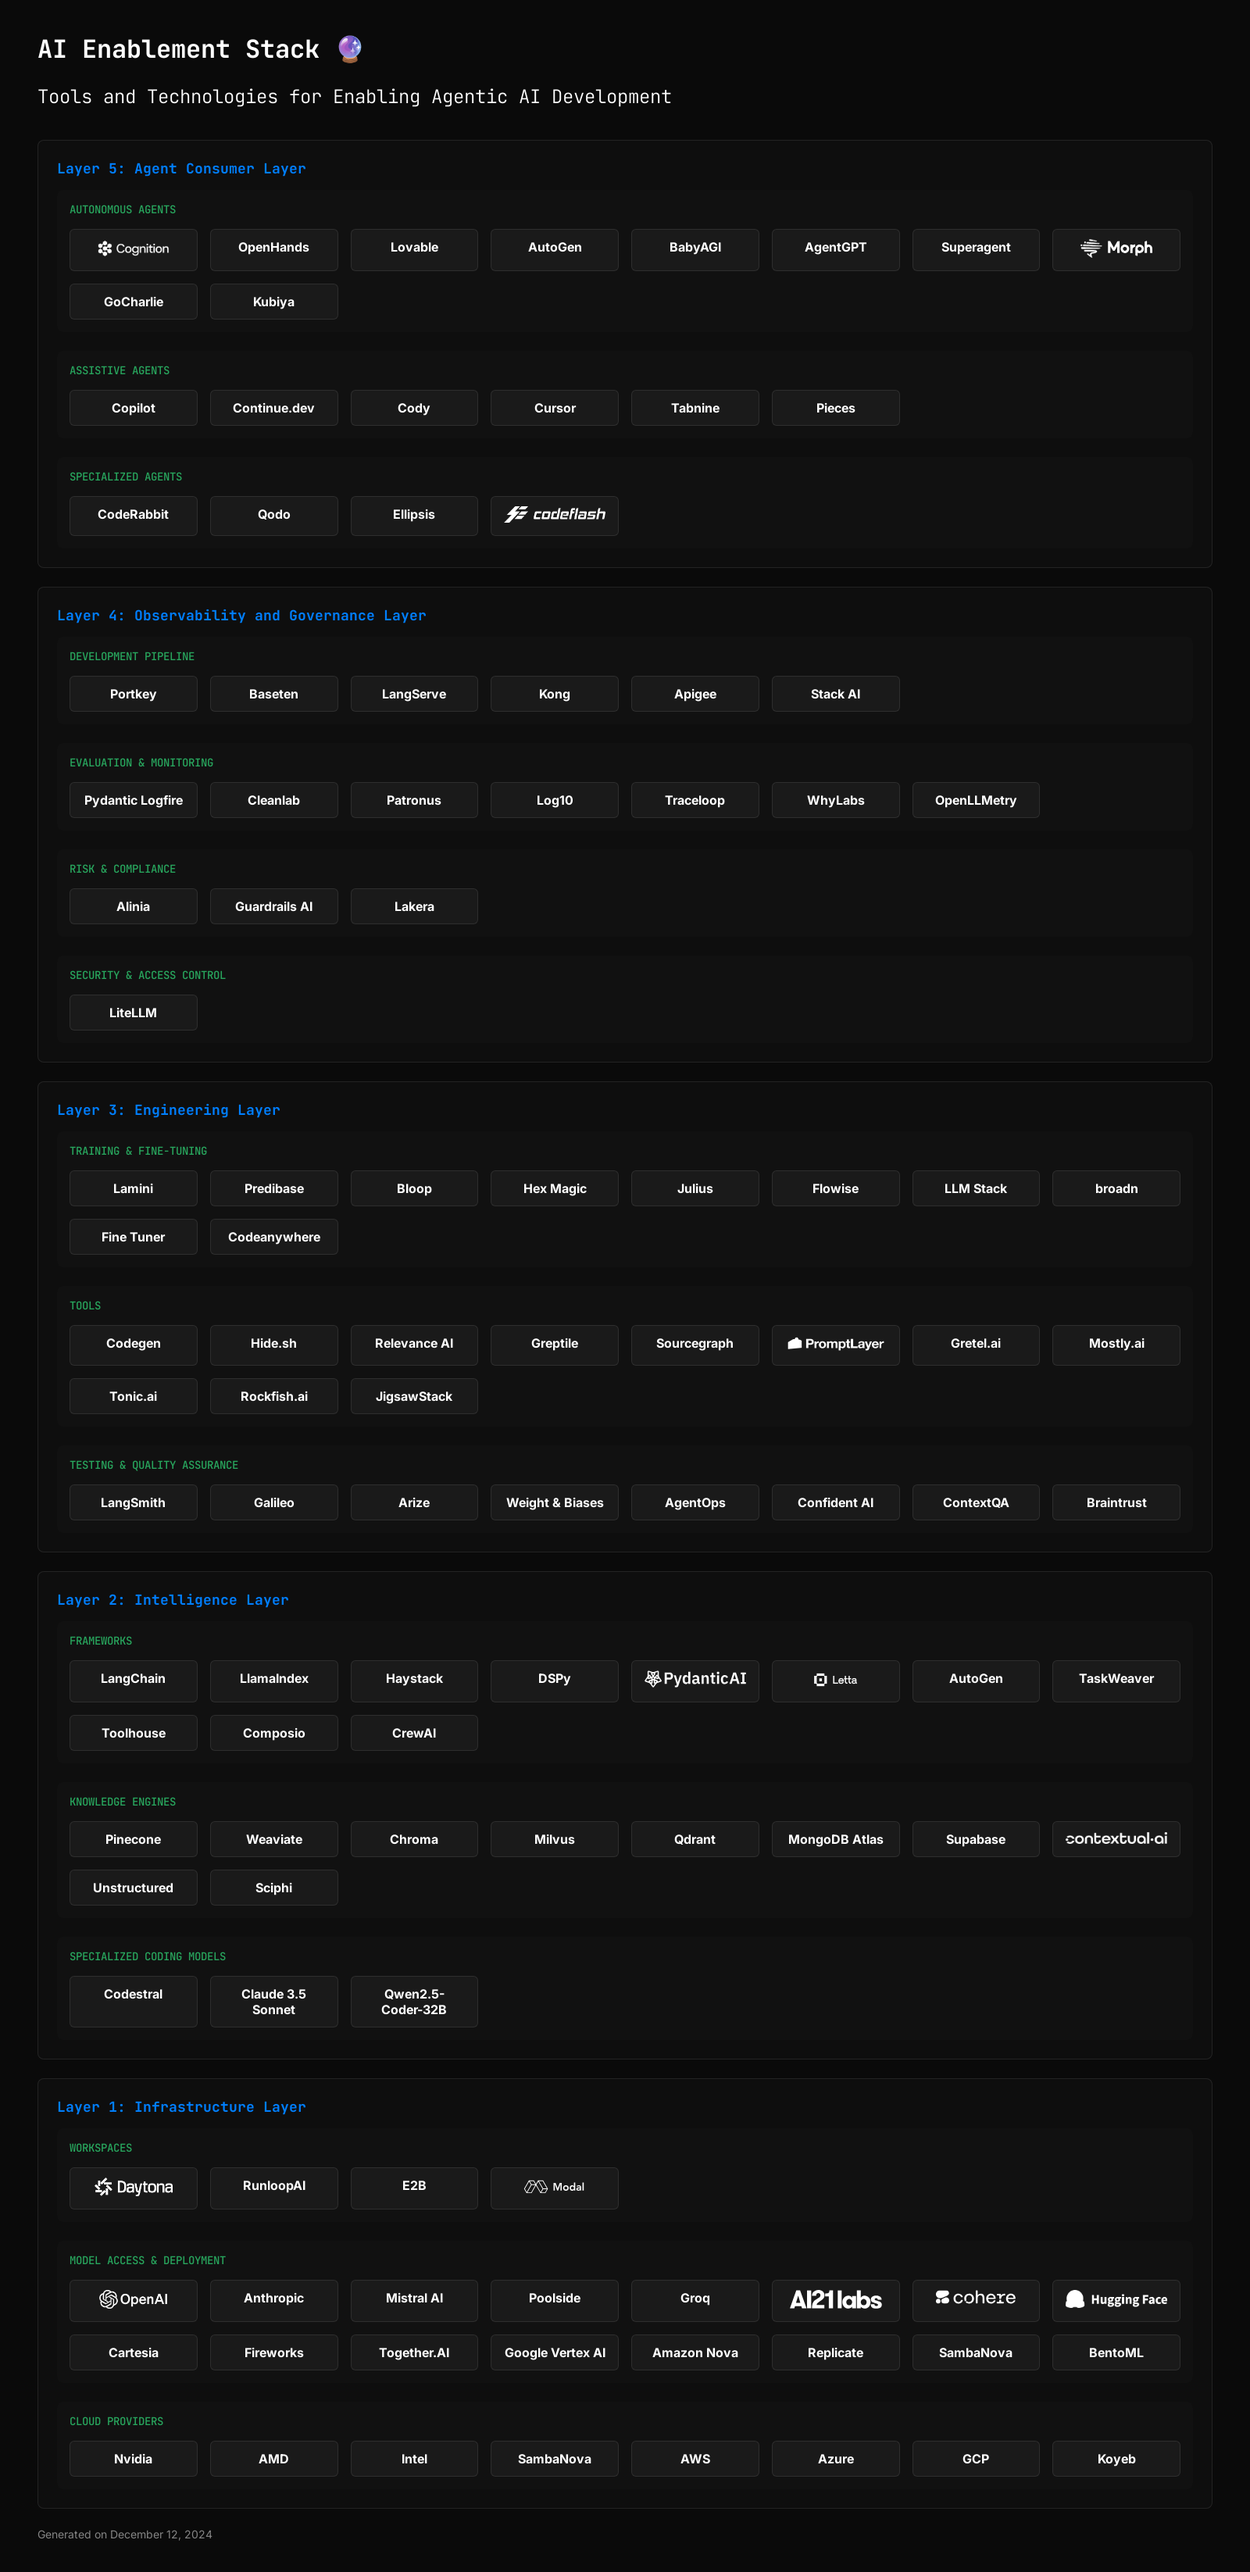
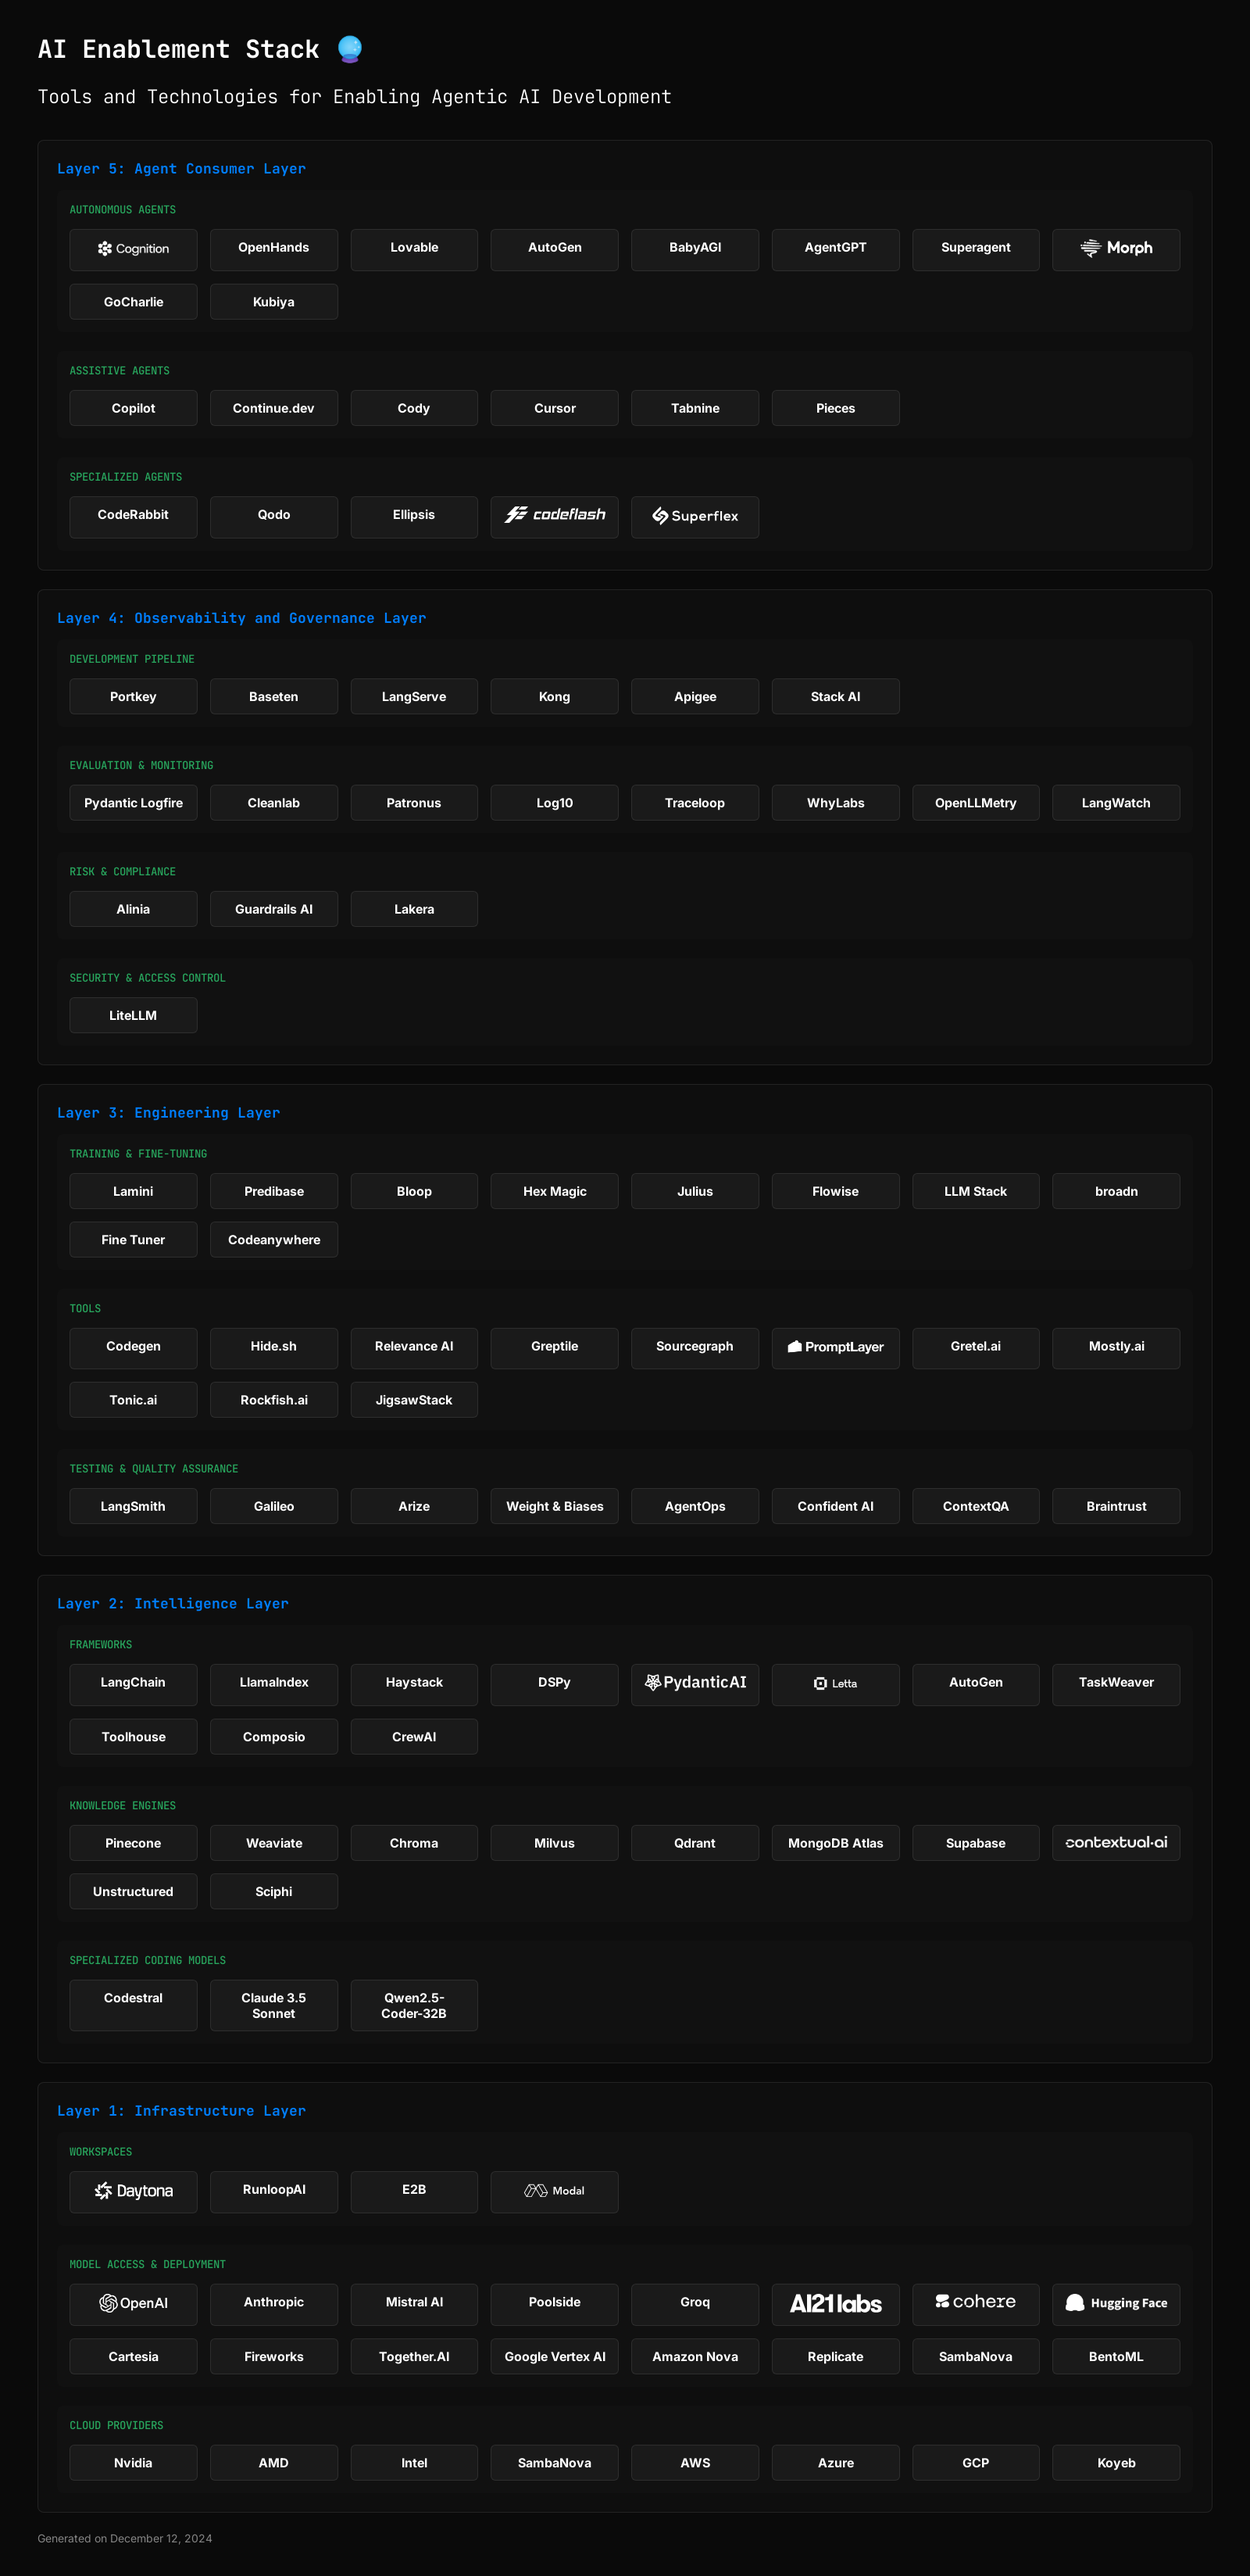
generated

diff --git a/README.md b/README.md
@@ -309,6 +309,21 @@ Codeflash is a CI tool that keeps your Python code performant by using AI to aut
 - [https://www.codeflash.ai/](https://www.codeflash.ai/)
 </details>
 
+#### [Superflex](https://superflex.ai/)
+<details>
+
+![Superflex](./assets/superflex.svg)
+
+##### Category
+Agent Consumer Layer - SPECIALIZED AGENTS
+
+##### Description
+Superflex is a VSCode Extension that builds features from Figma designs, images and text prompts, while maintaining your design standards, code style, and reusing your UI components.
+
+##### Links
+- [https://superflex.ai/](https://superflex.ai/)
+</details>
+
 ## Observability and Governance Layer
 
 ### DEVELOPMENT PIPELINE
@@ -481,6 +496,19 @@ OpenLLMetry provides an open-source observability solution for LLMs built on Ope
 
 ##### Links
 - [https://openllmetry.org/](https://openllmetry.org/)
+</details>
+
+#### [LangWatch](https://langwatch.ai/)
+<details>
+
+##### Category
+Observability and Governance Layer - EVALUATION & MONITORING
+
+##### Description
+LangWatch provides a comprehensive LLMOps platform for optimizing and monitoring LLM performance, featuring automated prompt optimization using DSPy, quality evaluations, performance monitoring, and collaborative tools for AI teams, with enterprise-grade security and self-hosting options.
+
+##### Links
+- [https://langwatch.ai/](https://langwatch.ai/)
 </details>
 
 ### RISK & COMPLIANCE
